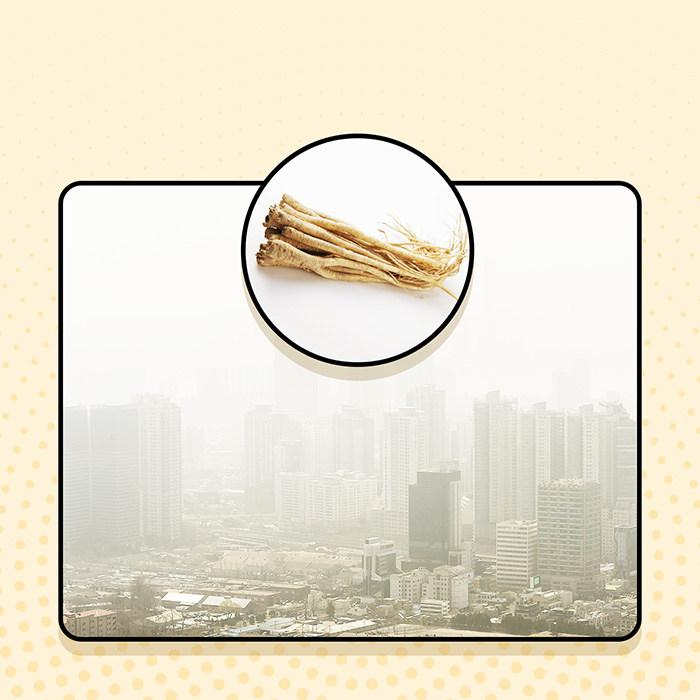
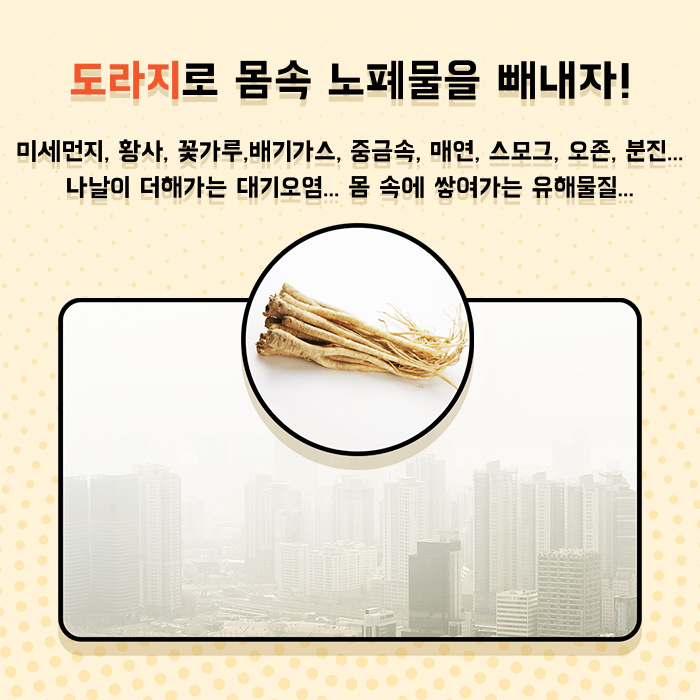
02

diff --git a/index_02.html b/index_02.html
@@ -16,12 +16,6 @@
                 data-big="images/02/02_01.jpg"
                 data-title=""
                 data-description=""
-                data-layer="<div><h1>미세먼지, 황사, 꽃가루,
-                        배기가스, 중금속, 매연,
-                        스모그, 오존, 분진...
-                        나날이 더해가는 대기오염...
-                        몸 속에 쌓여가는 유해물질...
-                        도라지로 몸 속 노폐물을 빼내자!</h1></div>"
             >
             <img 
                 src="images/02/02_02.gif",
